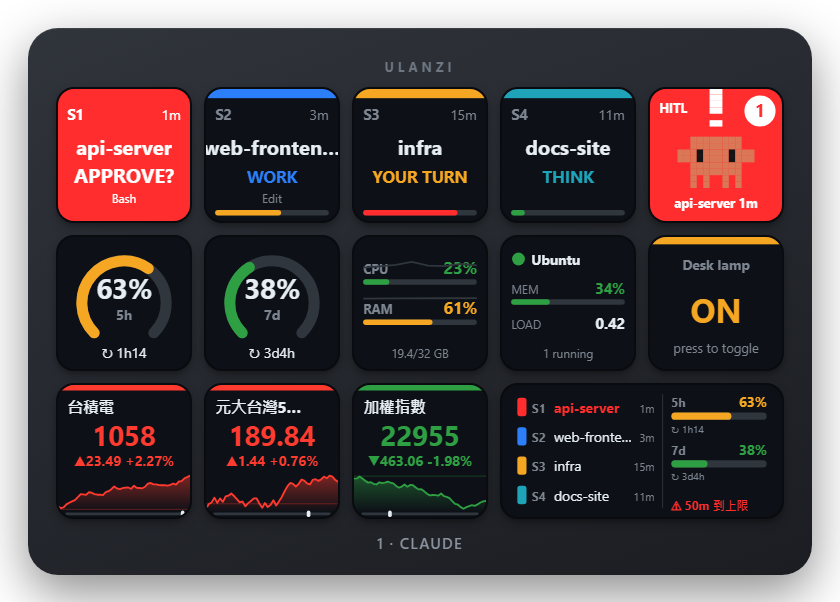
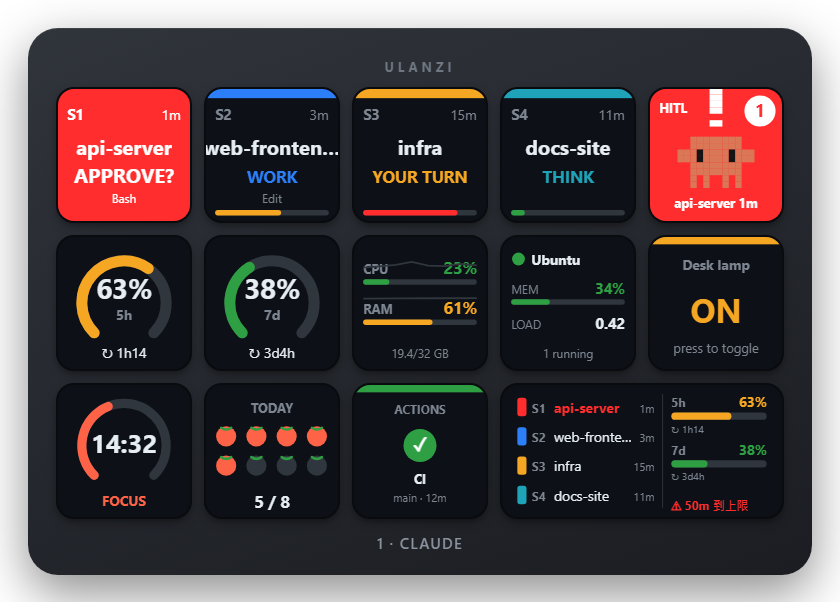
feat(pages): make page 1 a fixed focus-work home row
Page 1's bottom row is now Pomodoro timer + count + a CI/CD key that
follows ULANZI_LAB_FORGE (GitHub Actions, else CI-failed MRs). Stocks
stay on the Markets / Watchlist pages, so ULANZI_LAB_HOME_ROW and
ULANZI_LAB_HOME_STOCKS are removed.

Changed region(s): [[0.0619, 0.6279, 0.5881, 0.8671]]

diff --git a/plugin/com.ulanzi.nwpie.ulanziPlugin/src/pages.js b/plugin/com.ulanzi.nwpie.ulanziPlugin/src/pages.js
@@ -17,11 +17,6 @@ export function buildPages() {
   const forge = env('ULANZI_LAB_FORGE', 'auto').toLowerCase();
   const word = forge === 'github' ? 'PR' : forge === 'gitlab' ? 'MR' : 'Review';
 
-  // Page 1 row 3: the review board (default) or a few stocks (ULANZI_LAB_HOME_ROW=stocks + ULANZI_LAB_HOME_STOCKS).
-  const homeRow = env('ULANZI_LAB_HOME_ROW', 'board') === 'stocks'
-    ? (envList('ULANZI_LAB_HOME_STOCKS').length ? envList('ULANZI_LAB_HOME_STOCKS') : ['2330', '0050', 't00']).slice(0, 3).map(stock)
-    : [['devops', { kind: 'mr-total' }], ['devops', { kind: 'mr-ci' }], ['devops', { kind: 'mr-conflict' }]];
-
   // DevOps page: HTTP checks from ULANZI_LAB_HTTP_CHECKS ("url|label,url|label"); default checks the Claude API.
   const checks = envList('ULANZI_LAB_HTTP_CHECKS').map(http);
   if (!checks.length) checks.push(['devops', { kind: 'http', url: 'https://api.anthropic.com/', label: 'Anthropic API' }]);
@@ -29,11 +24,12 @@ export function buildPages() {
 
   const pages = [
     {
+      // Focus-work home: Claude sessions + HITL, usage/health, then a pomodoro + CI/CD bottom row (stocks live on Markets/Watchlist).
       name: 'Claude',
       keys: [
         ['0_0', 'session', { slot: 1 }], ['1_0', 'session', { slot: 2 }], ['2_0', 'session', { slot: 3 }], ['3_0', 'session', { slot: 4 }], ['4_0', 'hitl', { nag: 'off', theme: 'classic', style: 'mascot' }],
         ['0_1', 'usage', { window: '5h' }], ['1_1', 'usage', { window: '7d' }], ['2_1', 'sys', {}], ['3_1', 'wsl', {}], ['4_1', 'iot', { device: 'mock.lamp' }],
-        ['0_2', ...homeRow[0]], ['1_2', ...homeRow[1]], ['2_2', ...homeRow[2]], ['3_2', 'usage', { window: 'wide' }],
+        ['0_2', 'focus', { part: 'timer' }], ['1_2', 'focus', { part: 'count' }], ['2_2', ...ciKey], ['3_2', 'usage', { window: 'wide' }],
       ],
     },
     {

diff --git a/README.md b/README.md
@@ -103,8 +103,6 @@ See [.env.example](.env.example) for the full list with comments. After editing,
 | `ULANZI_LAB_BOARD_SCOPE` | `involves:@me` | GitHub search qualifiers for the PR board (`org:x`, `repo:o/r`, …) |
 | `ULANZI_LAB_ACTIONS_REPO` | (repos of your PRs) | `owner/name` for the GitHub Actions key |
 | `ULANZI_LAB_HTTP_CHECKS` | Claude API | Up to two `url\|label` health checks |
-| `ULANZI_LAB_HOME_ROW` | `board` | Bottom row of page 1: `board` (PR/MR counters) or `stocks` |
-| `ULANZI_LAB_HOME_STOCKS` | `2330,0050,t00` | Quote codes for `HOME_ROW=stocks` |
 | `ULANZI_LAB_WATCHLIST` | (none) | Up to 12 `SYMBOL:label` items. Adds a Watchlist page. |
 | `ULANZI_LAB_WATCHLIST_STRIP` | (none) | Up to 3 items for the Watchlist wide key (mini candlesticks) |
 | `ULANZI_LAB_DISTRO` | default distro | WSL distro the plugin talks to |
@@ -119,7 +117,7 @@ The page buttons (`0_3` / `1_3`) flip pages. Every page keeps a **HITL** key.
 
 | # | Page | Keys |
 |---|---|---|
-| 1 | **Claude** | Sessions S1–S4, HITL. 5h / 7d usage, system, WSL, AIoT. Bottom row: PR/MR counters or stocks. Wide key: fleet strip (sessions, usage bars, burn rate) |
+| 1 | **Claude** | Sessions S1–S4, HITL. 5h / 7d usage, system, WSL, AIoT. Bottom row: Pomodoro timer + count, CI/CD. Wide key: fleet strip (sessions, usage bars, burn rate) |
 | 2 | **Windows** | Snap the foreground window: halves, quarters, thirds, center, maximize. Presets: 2-split, 4-grid. Wide key: HITL banner |
 | 3 | **Markets** | TAIEX, Dow, S&P 500, Nasdaq, SOX, Nikkei, USD/TWD, DXY, USD/JPY, gold, WTI, BTC. Wide key: Brent / silver / copper candlesticks |
 | (4) | **Watchlist** | Only with `ULANZI_LAB_WATCHLIST`: your 12 symbols plus a 3-row candlestick strip |
